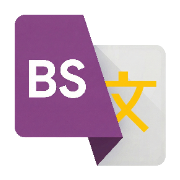
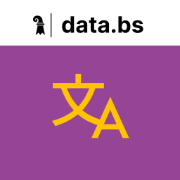
Feat/languages (#187)
* feat(languages): add support for additional languages and their text directions

* Update versions, update to common ui 2.0.0 and fix glossar button alignment

* Fix navboar things

* Fix nav bar

* feat(markdown): add markdown styles as a TypeScript string and update import in markdownToHtml

* feat(tests): refactor onboarding tour helpers and integrate into tests

* feat(tests): update tests to skip disclaimer and improve tooltip visibility checks

* refactor(tests): simplify test function signatures and improve tooltip regex formatting

* feat: enhance localization support in tests and UI

- Added `anyLocale` helper function to match labels in multiple locales.
- Updated E2E tests to utilize localized strings for tooltips and messages.
- Refactored input field selectors to use `data-testid` for consistency.
- Improved clipboard copy tests to validate HTML content.
- Added localization for tone and domain selection in API call tests.
- Ensured all relevant UI elements reflect localized text for better user experience.

* Fix images

* Fix footer and update to common ui 2.1.0

* Update common ui

* fix: update linter rules and presets in biome.json; adjust nuxt-layers configuration

* fix: update biome version to 2.5.5 in CI workflow and remove unused dependency from bun.lock

* Fix code rabbit findings

* fix: update tour completion messages and adjust restart button locator

diff --git a/nuxt.config.ts b/nuxt.config.ts
@@ -20,6 +20,7 @@ export default defineNuxtConfig({
         ["github:DCC-BS/nuxt-layers/auth", { install: true }],
         ["github:DCC-BS/nuxt-layers/backend_communication", { install: true }],
         ["github:DCC-BS/nuxt-layers/health_check", { install: false }],
+        ["github:DCC-BS/nuxt-layers/dcc-app-config"],
         process.env.USE_FEEDBACK === "true"
             ? ["github:DCC-BS/nuxt-layers/feedback-control", { install: true }]
             : undefined,
@@ -63,7 +64,28 @@ export default defineNuxtConfig({
             titleTemplate: "BS Übersetzer",
             link: [
                 { rel: "icon", type: "image/x-icon", href: "/favicon.ico" },
-                { rel: "apple-touch-icon", href: "/apple-touch-icon.png" },
+                {
+                    rel: "icon",
+                    type: "image/svg+xml",
+                    href: "/favicon.svg",
+                },
+                {
+                    rel: "icon",
+                    type: "image/png",
+                    sizes: "32x32",
+                    href: "/favicon-32x32.png",
+                },
+                {
+                    rel: "icon",
+                    type: "image/png",
+                    sizes: "16x16",
+                    href: "/favicon-16x16.png",
+                },
+                {
+                    rel: "apple-touch-icon",
+                    sizes: "180x180",
+                    href: "/apple-touch-icon.png",
+                },
             ],
             htmlAttrs: {
                 lang: "de",
@@ -79,7 +101,6 @@ export default defineNuxtConfig({
                     content: "BS Übersetzer",
                 },
                 { name: "application-name", content: "BS Übersetzer" },
-                { name: "msapplication-config", content: "/browserconfig.xml" },
                 { name: "mobile-web-app-capable", content: "yes" },
                 {
                     name: "apple-mobile-web-app-status-bar-style",
@@ -180,25 +201,19 @@ export default defineNuxtConfig({
             orientation: "portrait",
             icons: [
                 {
-                    src: "pwa-192x192.png",
+                    src: "/android-chrome-192x192.png",
                     sizes: "192x192",
                     type: "image/png",
                     purpose: "any",
                 },
                 {
-                    src: "pwa-512x512.png",
+                    src: "/android-chrome-512x512.png",
                     sizes: "512x512",
                     type: "image/png",
                     purpose: "any",
                 },
                 {
-                    src: "pwa-maskable-192x192.png",
-                    sizes: "192x192",
-                    type: "image/png",
-                    purpose: "maskable",
-                },
-                {
-                    src: "pwa-maskable-512x512.png",
+                    src: "/android-chrome-512x512.png",
                     sizes: "512x512",
                     type: "image/png",
                     purpose: "maskable",

diff --git a/app/components/NavigationMenu.vue b/app/components/NavigationMenu.vue
@@ -10,26 +10,24 @@ const props = withDefaults(defineProps<InputProps>(), {
 // Add translation hook
 const { t } = useI18n();
 const config = useRuntimeConfig();
-const onlineFetchFunction = config.public.useDummyData
-    ? async () => true
-    : undefined;
+
+const apps = useAppList("BS-Übersetzer");
 </script>
 
 <template>
-    <NavigationBar data-tour="main-content">
-        <template #rightPostItems>
-            <OnlineStatus :isOnlineCheckFunction="onlineFetchFunction" />
-            <ULink v-if="props.inConversation" to="/">
-                <UButton variant="ghost" color="neutral" icon="i-lucide-home">
+    <NavigationBar :other-apps="apps" data-tour="main-content">
+        <template #center>
+            <div class="flex justify-center">
+                <UButton v-if="props.inConversation" to="/" variant="ghost" color="neutral" icon="i-lucide-home"
+                    aria-label="Home" class="max-md:p-1.5">
                     <div class="hidden md:inline">Home</div>
                 </UButton>
-            </ULink>
-            <ULink v-else to="/conversation">
-                <UButton data-tour="conversation-mode" variant="subtle" color="primary"
-                    icon="i-lucide-message-circle-more">
+                <UButton v-else to="/conversation" data-tour="conversation-mode" variant="subtle" color="primary"
+                    icon="i-lucide-message-circle-more" :aria-label="t('navigation.conversation-mode')"
+                    class="max-md:p-1.5">
                     <div class="hidden md:inline">{{ t("navigation.conversation-mode") }}</div>
                 </UButton>
-            </ULink>
+            </div>
         </template>
     </NavigationBar>
 </template>

diff --git a/tests/e2e/helpers.ts b/tests/e2e/helpers.ts
@@ -43,10 +43,13 @@ export function anyLocale(...texts: string[]) {
 
 /**
  * Restart button comes from common-ui's NavigationBar; it renders a mobile and
- * a desktop variant, only one of which is visible at a time.
+ * a desktop variant, only one of which is visible at a time. Located by its
+ * data-tour anchor because the label is owned by common-ui and changes between
+ * releases (it is currently "Hilfe"/"Help").
  */
 export function restartTourButton(page: Page) {
     return page
-        .getByRole("button", { name: /Tour neu starten|Restart tour/i })
+        .locator('[data-tour="start-tour"]')
+        .getByRole("button")
         .filter({ visible: true });
 }

diff --git a/app/layouts/default.vue b/app/layouts/default.vue
@@ -10,10 +10,12 @@ const onboardingBuilder = useOnboardingTour();
         <div class="flex-1 min-h-0">
             <slot />
         </div>
-        <!-- Footer section with branding and feedback -->
-        <div class="flex items-center justify-between px-2 py-1">
-            <DataBsFooter />
-            <FeedbackControl inline />
-        </div>
+        <DataBsFooter size="sm" class="p-2">
+            <template #right>
+                <div class="flex justify-end">
+                    <FeedbackControl inline />
+                </div>
+            </template>
+        </DataBsFooter>
     </div>
 </template>
